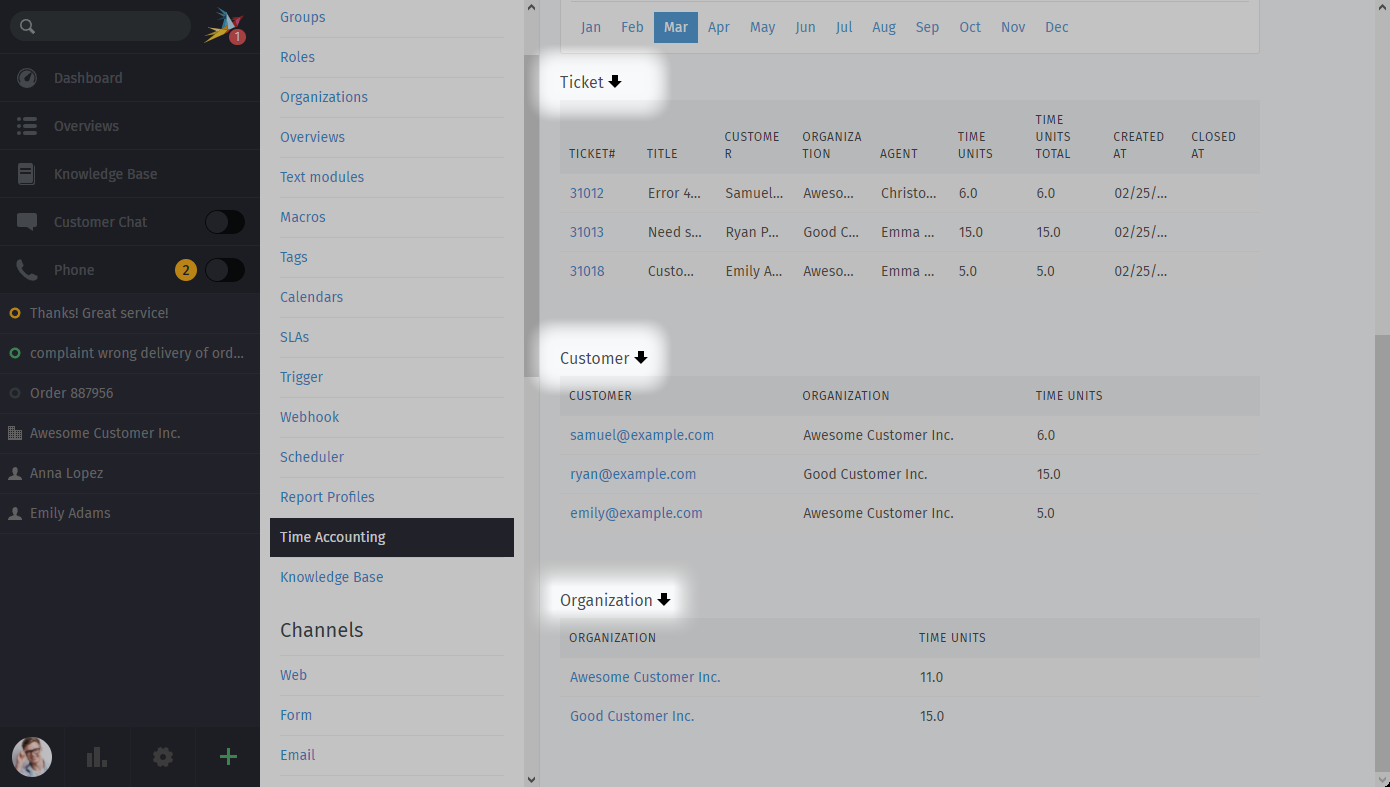
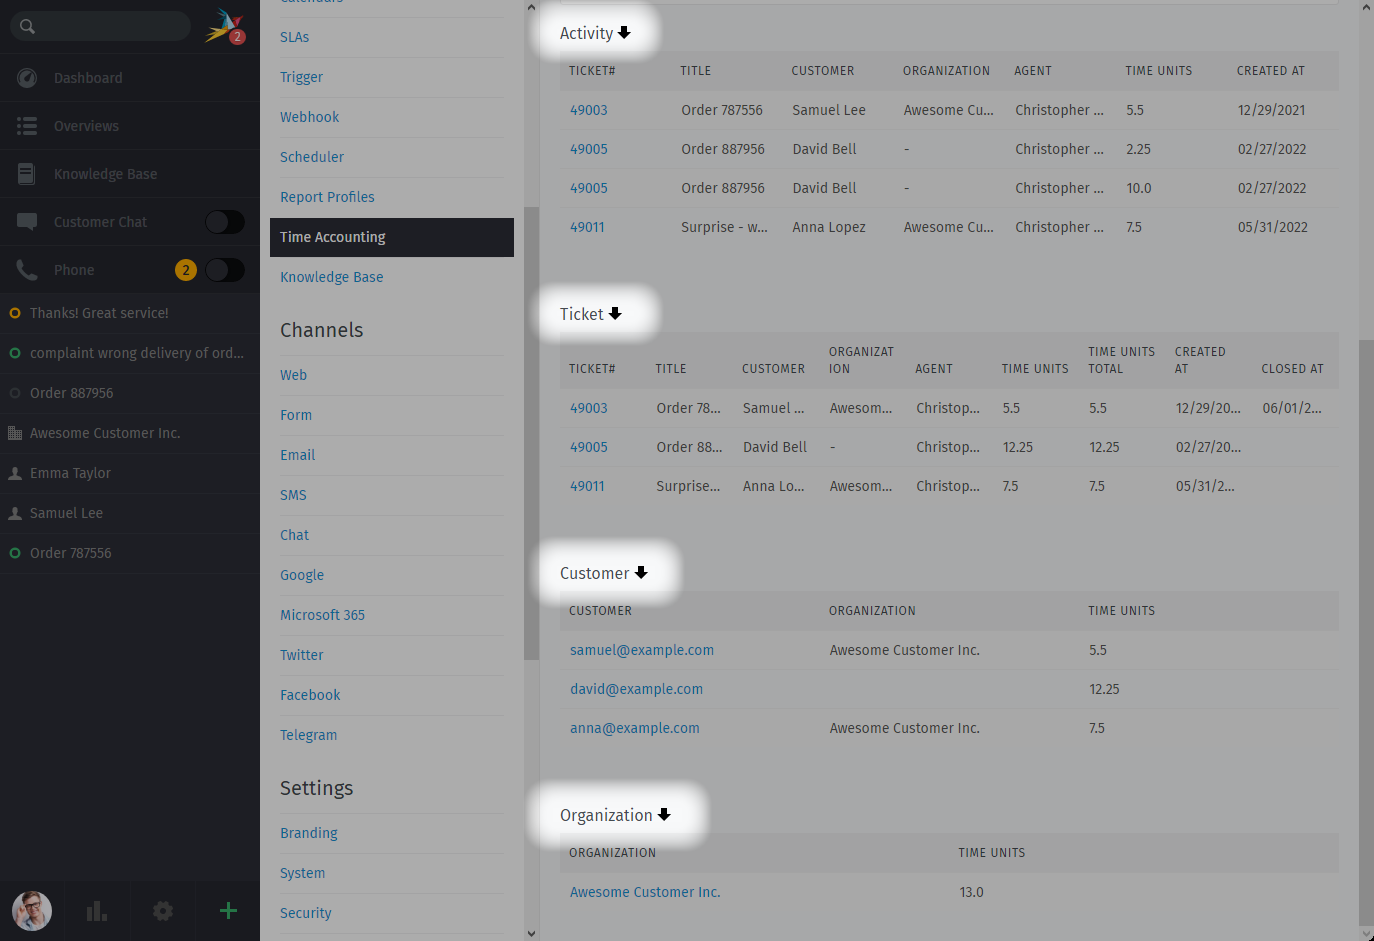
Add time accoutings activity filter and update screenshots

diff --git a/manage/time-accounting.rst b/manage/time-accounting.rst
@@ -4,7 +4,7 @@ Time Accounting
 If you want to know how much time you need for your each project or ticket,
 enable time accounting (turn on the switch on the top left side of the page).
 
-.. figure:: /images/manage/time-accounting/configuration-for-time-accounting.png
+.. figure:: /images/manage/time-accounting/time-accounting-management.png
    :alt: Time accounting management page in Zammad
 
 How it works
@@ -21,6 +21,9 @@ the current ticket step.
       the agent has to update the ticket together with any article type.
       The article part is mandatory.
 
+      However, the time accounting dialogue is not mandatory and can be
+      cancelled by your agents if needed. You cannot enforce time accounting.
+
       If a ticket no longer applies for time accounting, the already accounted
       time is not lost.
 
@@ -31,8 +34,7 @@ the current ticket step.
       currently is open, your ticket selector has to apply to -at least- open
       tickets.
 
-.. figure:: /images/manage/time-accounting/configuration-for-time-accounting.png
-   :width: 90%
+.. figure:: /images/manage/time-accounting/time-accounting-selector.png
    :align: center
    :alt: Time accounting ticket selectors
 
@@ -59,7 +61,7 @@ Select the right month
 
 Tickets and their accounted time
    Zammad allows you to receive the accounted information just like you need
-   them. For this you currently have three options to view and also download
+   them. For this you currently have four options to view and also download
    the relevant data as CSV.
 
    To download the CSV data, use the arrow down ⇩ right next to each heading
@@ -68,6 +70,21 @@ Tickets and their accounted time
    .. hint::
 
       🤓 Of course you can also automate this with API calls.
+
+   Activity
+      This filter works similar to the ticket filter, with one exception:
+      You'll find each *individual* time accounting step of your agents.
+      This is what you'd also see in the tickets history before Zammad 5.2.
+
+      In this list you'll see the following ticket information:
+
+         * Number
+         * Title
+         * Customer
+         * Organization of customer (if applicable)
+         * Agent that accounted the time
+         * Time units accounted in the current month
+         * Created at
 
    Ticket
       This filter contains all relevant tickets from the selected month.
